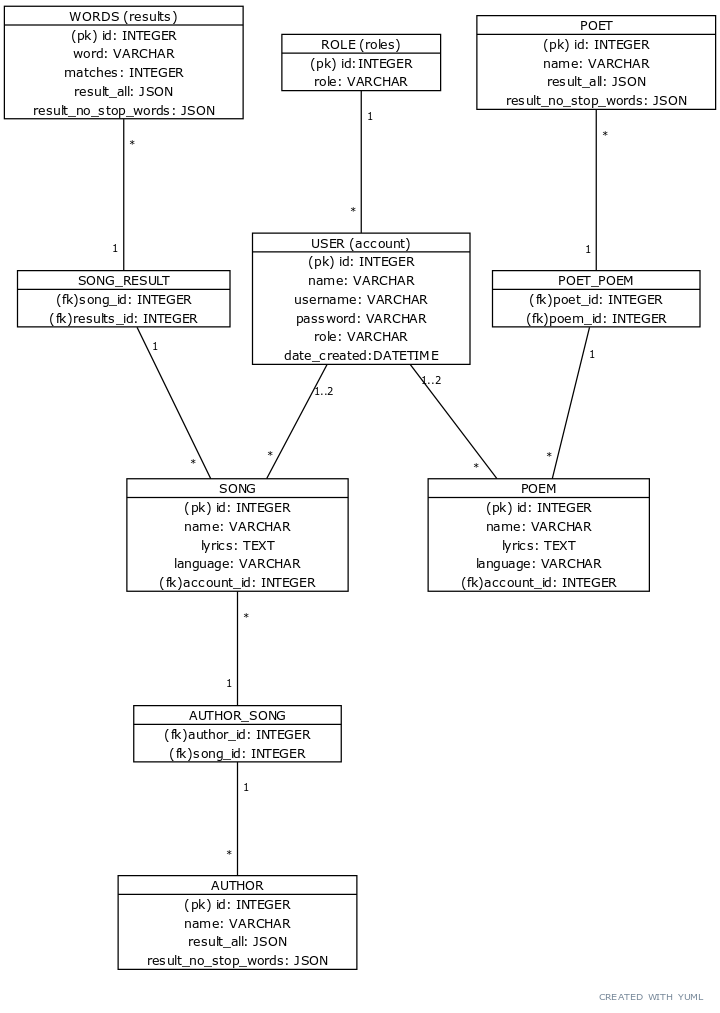
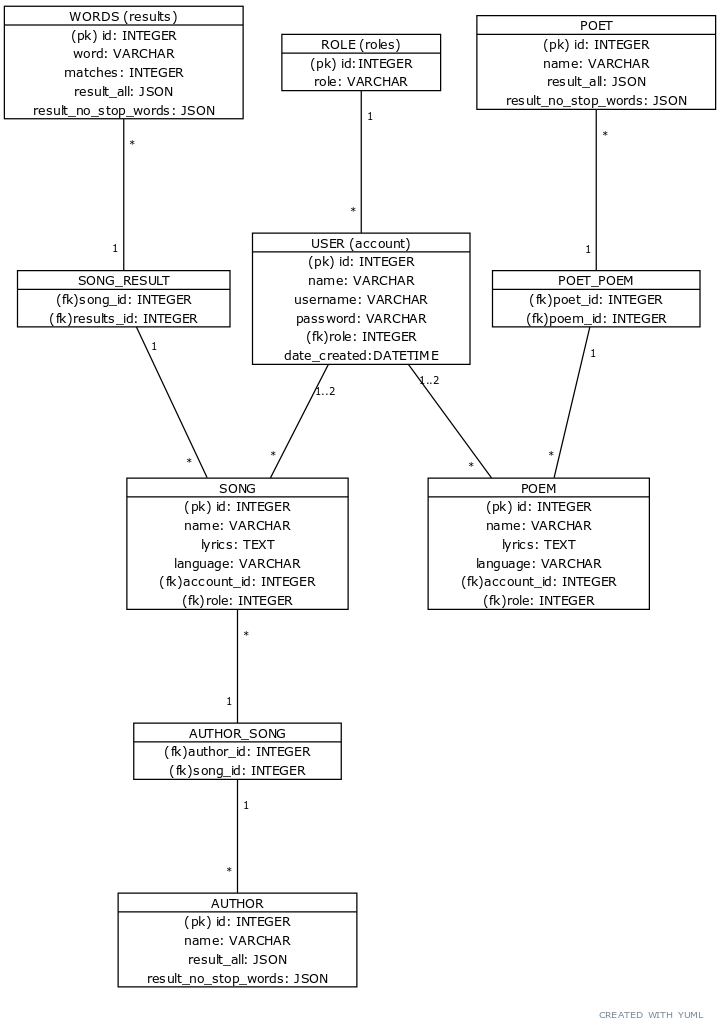
Fixed Heroku
The fault happened, because I added foreign keys to tables Poem and
Song. Those keys (account_role) pointed to table User's (account) role
column, which pointed to table Role's role column, which has a UNIQUE
constraint. So, I had to give UNIQUE constraints also to tables Song and
Poem (account_role columns).

Modified database diagram accordingly.

diff --git a/application/admin/views.py b/application/admin/views.py
@@ -96,8 +96,8 @@ def user_adminate(user_id):
 @login_required(roles=[1])
 def add_songs():
 
-	if db.session.query(Song).count() > 0 and db.session.query(Author).count() > 0:
-		flash("Song database is not empty - cannot add default songs.", "warning")
+	if db.session.query(Song).filter(Song.account_role==1).count() > 0 and db.session.query(Author).count() > 0:
+		flash("Default songs already exist.", "warning")
 		return redirect(url_for("auth_stats", load='na'))
 	else:
 		progress_songs()
@@ -266,7 +266,7 @@ def progress_songs():
 @login_required(roles=[1])
 def remove_songs():
 		
-	if db.session.query(Song).count() == 0 and db.session.query(Author).count() == 0:
+	if db.session.query(Song).filter(Song.account_role==1).count() == 0 and db.session.query(Author).count() == 0:
 		flash("Authors and Songs already empty.", "warning")
 	else:
 		try:
@@ -319,8 +319,8 @@ def remove_songs():
 @login_required(roles=[1])
 def add_poems():
 
-	if db.session.query(Poet).count() > 0 and db.session.query(Poem).count() > 0:
-		flash("Poem database is not empty - cannot add default poems.", "warning")
+	if db.session.query(Poet).count() > 0 and db.session.query(Poem).filter(Poem.account_role==1).count() > 0:
+		flash("Default poems already exist.", "warning")
 		return redirect(url_for("auth_stats", load='na'))
 	else:
 		progress_poems()
@@ -557,7 +557,7 @@ def progress_poems():
 @login_required(roles=[1])
 def remove_poems():
 
-	if db.session.query(Poet).count() == 0 and db.session.query(Poem).count() == 0:
+	if db.session.query(Poet).count() == 0 and db.session.query(Poem).filter(Poem.account_role==1).count() == 0:
 		flash("Poets and Poems already empty.", "warning")
 	else:
 		try:

diff --git a/documentation/tietokanta.md b/documentation/tietokanta.md
@@ -36,6 +36,7 @@
         account_role INTEGER NOT NULL,
         PRIMARY KEY (id),
         FOREIGN KEY(account_id) REFERENCES account (id),
+        UNIQUE (account_role),
         FOREIGN KEY(account_role) REFERENCES account (role)
   );
   ```
@@ -91,6 +92,7 @@
         account_role INTEGER NOT NULL,
         PRIMARY KEY (id),
         FOREIGN KEY(account_id) REFERENCES account (id),
+        UNIQUE (account_role),
         FOREIGN KEY(account_role) REFERENCES account (role)
   );
   ```
@@ -117,7 +119,7 @@
 
 ## Tietokantakaavio
 
-<img src="https://user-images.githubusercontent.com/46410240/84678924-4e4eb880-af39-11ea-82c5-36b2cb6e9946.png" alt="database diagram">
+<img src="https://user-images.githubusercontent.com/46410240/84840076-3feec280-b047-11ea-9daa-cfcf819dd99d.png" alt="database diagram">
 
 ## Tietokantakyselyjä
 

diff --git a/documentation/kayttoohje.md b/documentation/kayttoohje.md
@@ -92,7 +92,7 @@ Kukin käyttäjä näkee kaikki oletuslaulut sekä itse lisäämänsä laulut. M
 
 Ohjelmaan voi siis rekisteröityä luomalla omat tunnukset, mutta helpoin tapa kokeilla sovellusta on kirjautua yhtä nappia painamalla vieras-tilille (*guest*) jolla on rajoitetut peruskäyttäjän oikeudet.
 
-Pääkäyttäjällä on joka näkymässä esillä alhaalla kolme nappia, joista voi listata käyttäjät tai lisätä/poistaa laulut tietokannasta.
+Pääkäyttäjällä on joka näkymässä esillä alhaalla viisi nappia, joista voi listata käyttäjät, lisätä oletuslaulut/-runot tietokannasta tai poistaa kaikki laulut/runot.
 
 <img src="https://user-images.githubusercontent.com/46410240/84241534-44c3eb80-ab08-11ea-8f02-25fa71b24a65.png" alt="admin buttons" width="500">
 
